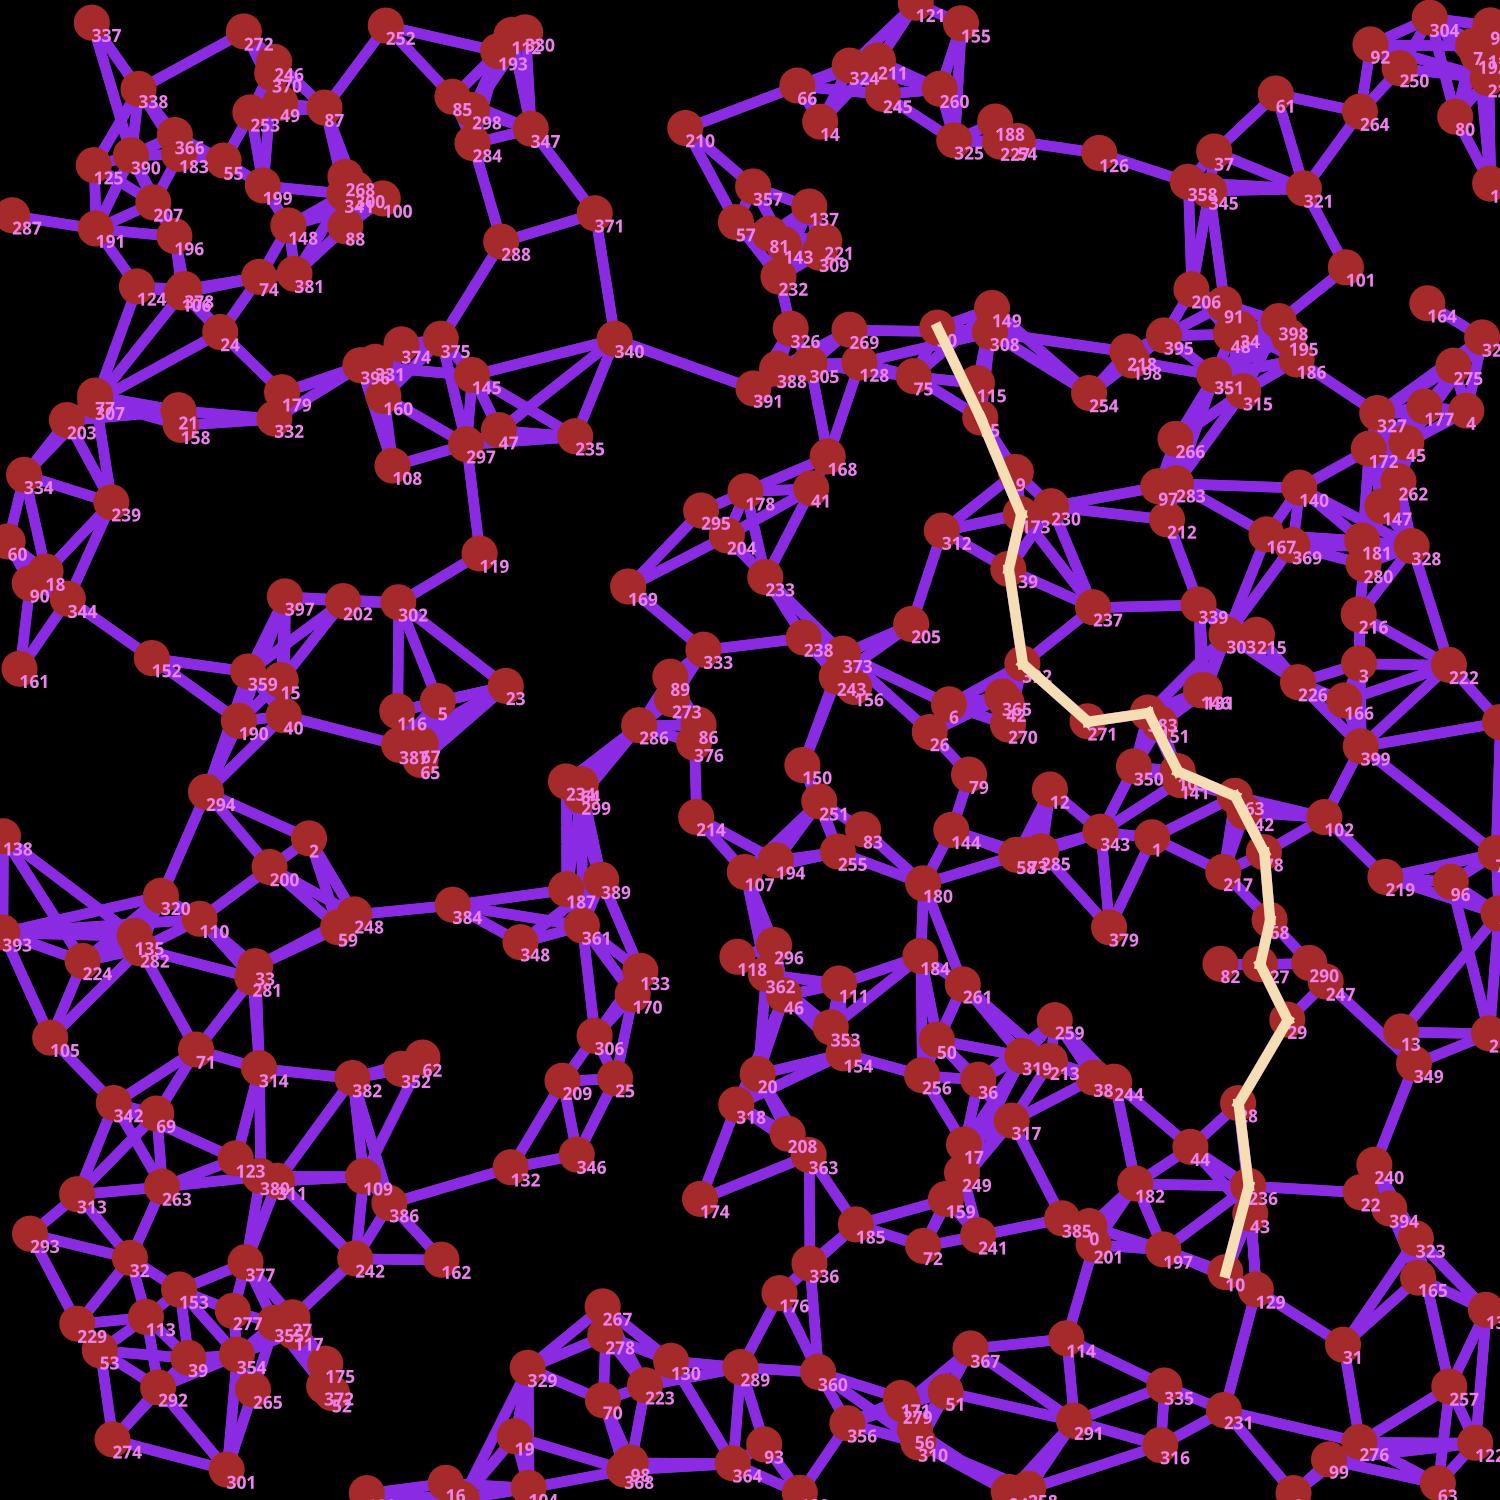
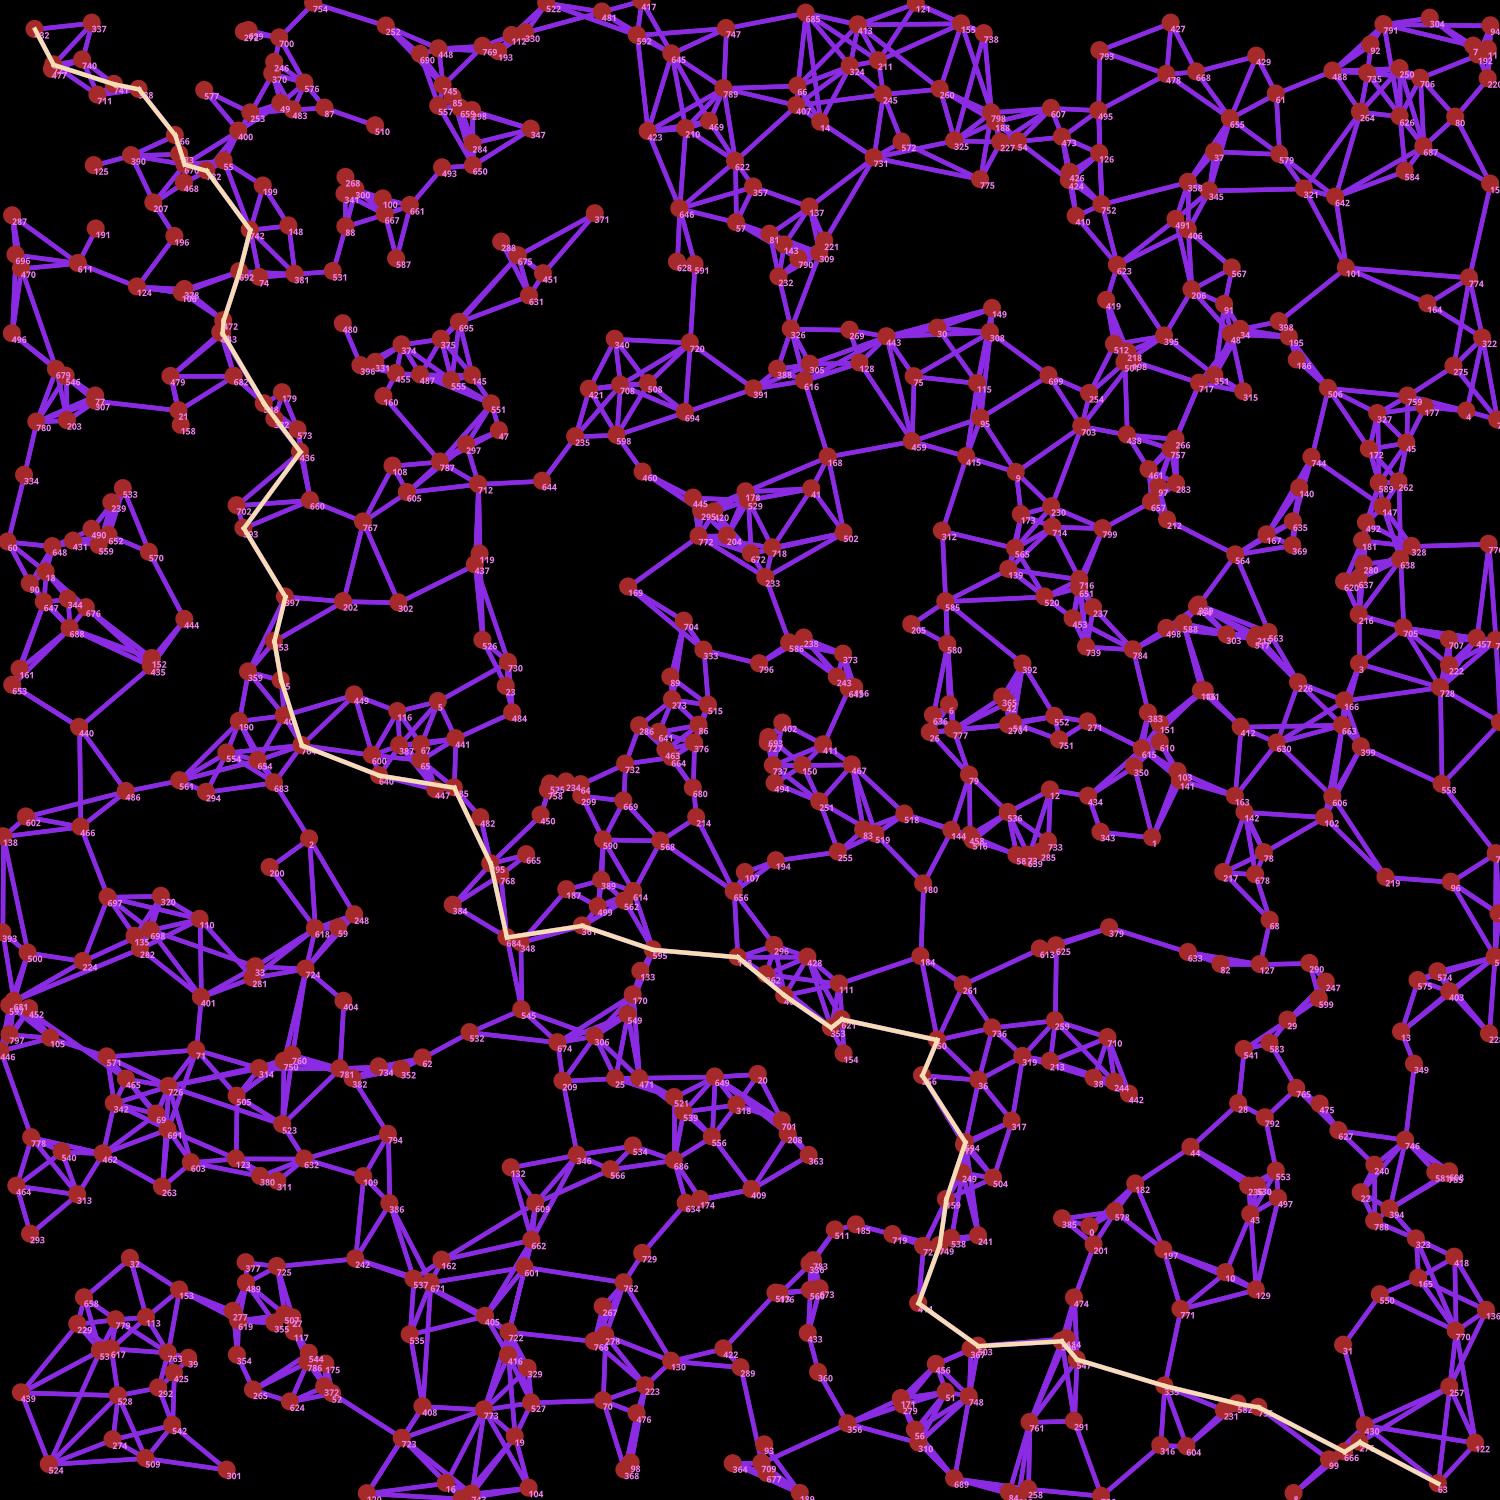
refactor and enchant example a bit

diff --git a/samples/FindTheShortestPath/Program.cs b/samples/FindTheShortestPath/Program.cs
@@ -10,15 +10,16 @@ using Newtonsoft.Json;
 
 //this program showing how to find the shortest path betwen two nodes
 //by summing and comparing sum of visited path
+
 var json = JsonConvert.DeserializeObject<dynamic>(File.ReadAllText("settings.json"));
 ArgumentsHandler argz = new(json);
 
-var rand = new Random(argz.nodeSeed);
+var rand = new Random(argz.nodeSeed >=0 ? argz.nodeSeed : new Random().Next());
 var nodes = NodeGraphFactory.CreateNodes(argz.nodesCount, id => new NodeXY(id, rand.NextDouble(), rand.NextDouble()));
 
 // NodeGraphFactory.ConnectRandomCountOfNodes(nodes, 0, 2, rand, (node, parent) => new NodeConnector(node, parent));
 
-Helpers.ConnectToClosestNodes(nodes.Select(x => (NodeXY)x).ToList(), argz.minChildren, argz.maxChildren, new Random(argz.connectionSeed));
+Helpers.ConnectToClosestNodes(nodes, argz.minChildren, argz.maxChildren, new Random(argz.connectionSeed>=0 ? argz.connectionSeed : new Random().Next()));
 NodeGraphFactory.MakeUndirected(nodes, (node, parent) => new NodeConnector(node, parent));
 
 var startNode = nodes[argz.node1 % nodes.Count];
@@ -29,9 +30,9 @@ var pathFinder = new PathFinder(startNode);
 var graph = new ParallelGraph(nodes);
 graph.AddVisitor(pathFinder, startNode.Id);
 
-System.Console.WriteLine($"Trying to find path from {startNode} to {endNode}...");
 Helpers.MeasureTime(() =>
 {
+    System.Console.WriteLine($"Trying to find path from {startNode} to {endNode}...");
     for (int i = 0; i < argz.steps; i++)
         graph.Step();
 });
@@ -40,20 +41,23 @@ var path = pathFinder.GetPath(endNode) ?? new List<INode>();
 Helpers.ValidatePath(path);
 
 Helpers.PrintPath(path);
-using var image = new Image<Rgba32>(argz.outputResolution, argz.outputResolution);
-
-var drawer = new GraphDrawer(image, Brushes.Solid(Color.Brown), Brushes.Solid(Color.BlueViolet), argz.fontSize);
-drawer.NodeSize = argz.nodeSize;
-drawer.Thickness = argz.thickness;
-drawer.Clear(Color.Black);
-drawer.DrawNodeConnections(nodes);
-drawer.DrawNodes(nodes);
-
-if (path.Count > 0)
-{
-    drawer.DrawLineBrush = Brushes.Solid(Color.Wheat);
-    drawer.DrawPath(path);
-}
-image.SaveAsJpeg("example.jpg");
-
 System.Console.WriteLine($"---Path length {pathFinder.GetPathLength(endNode)}");
+
+Helpers.MeasureTime(() =>
+{
+    System.Console.WriteLine("Creating image...");
+    using var image = new Image<Rgba32>(argz.outputResolution, argz.outputResolution);
+    var drawer = new GraphDrawer(image, Brushes.Solid(Color.Brown), Brushes.Solid(Color.BlueViolet), argz.fontSize);
+    drawer.NodeSize = argz.nodeSize;
+    drawer.Thickness = argz.thickness;
+    drawer.Clear(Color.Black);
+    drawer.DrawNodeConnections(nodes);
+    drawer.DrawNodes(nodes);
+
+    if (path.Count > 0)
+    {
+        drawer.DrawLineBrush = Brushes.Solid(Color.Wheat);
+        drawer.DrawPath(path);
+    }
+    image.SaveAsJpeg("example.jpg");
+});

diff --git a/samples/SampleBase/Helpers.cs b/samples/SampleBase/Helpers.cs
@@ -5,11 +5,16 @@ public static class Helpers
 {
     public static void MeasureTime(Action operation)
     {
+        Console.ForegroundColor = ConsoleColor.Green;
+        System.Console.WriteLine("Starting operation");
+        Console.ResetColor();
         var watch = new Stopwatch();
         watch.Start();
         operation();
         watch.Stop();
-        System.Console.WriteLine($"Elapsed Milliseconds {watch.ElapsedMilliseconds}");
+        Console.ForegroundColor = ConsoleColor.Green;
+        Console.WriteLine($"End operation in {watch.ElapsedMilliseconds} Milliseconds");
+        Console.ResetColor();
     }
     public static void ValidatePath(List<INode> path)
     {
@@ -32,20 +37,20 @@ public static class Helpers
             }
         }
     }
-    public static void ConnectToClosestNodes(IList<NodeXY> nodes,int minChildCount, int maxChildCount,Random rand = null)
+    public static void ConnectToClosestNodes(IList<INode> nodes,int minChildCount, int maxChildCount,Random? rand = null)
     {
         rand = rand ?? new Random();
-        foreach (var parent in nodes)
+        foreach (var parent in nodes.Select(x=>x as NodeXY ?? new NodeXY(0,0,0)))
         {
             var childCount = rand.Next(maxChildCount-minChildCount)+minChildCount;
             for (int i = 0; i < childCount; i++)
             {
-                (NodeXY node, double distance) min = (null, 0);
+                (NodeXY? node, double distance) min = (null, 0);
                 int shift = rand.Next(nodes.Count);
 
                 for(int b = 0;b<nodes.Count;b++)
                 {
-                    var pretendent = nodes[(b+shift)%nodes.Count];
+                    var pretendent = nodes[(b+shift)%nodes.Count] as NodeXY ?? new NodeXY(0,0,0);
                     
                     if (pretendent.Id == parent.Id) continue;
                     if(pretendent.Children.Count>maxChildCount) continue;
